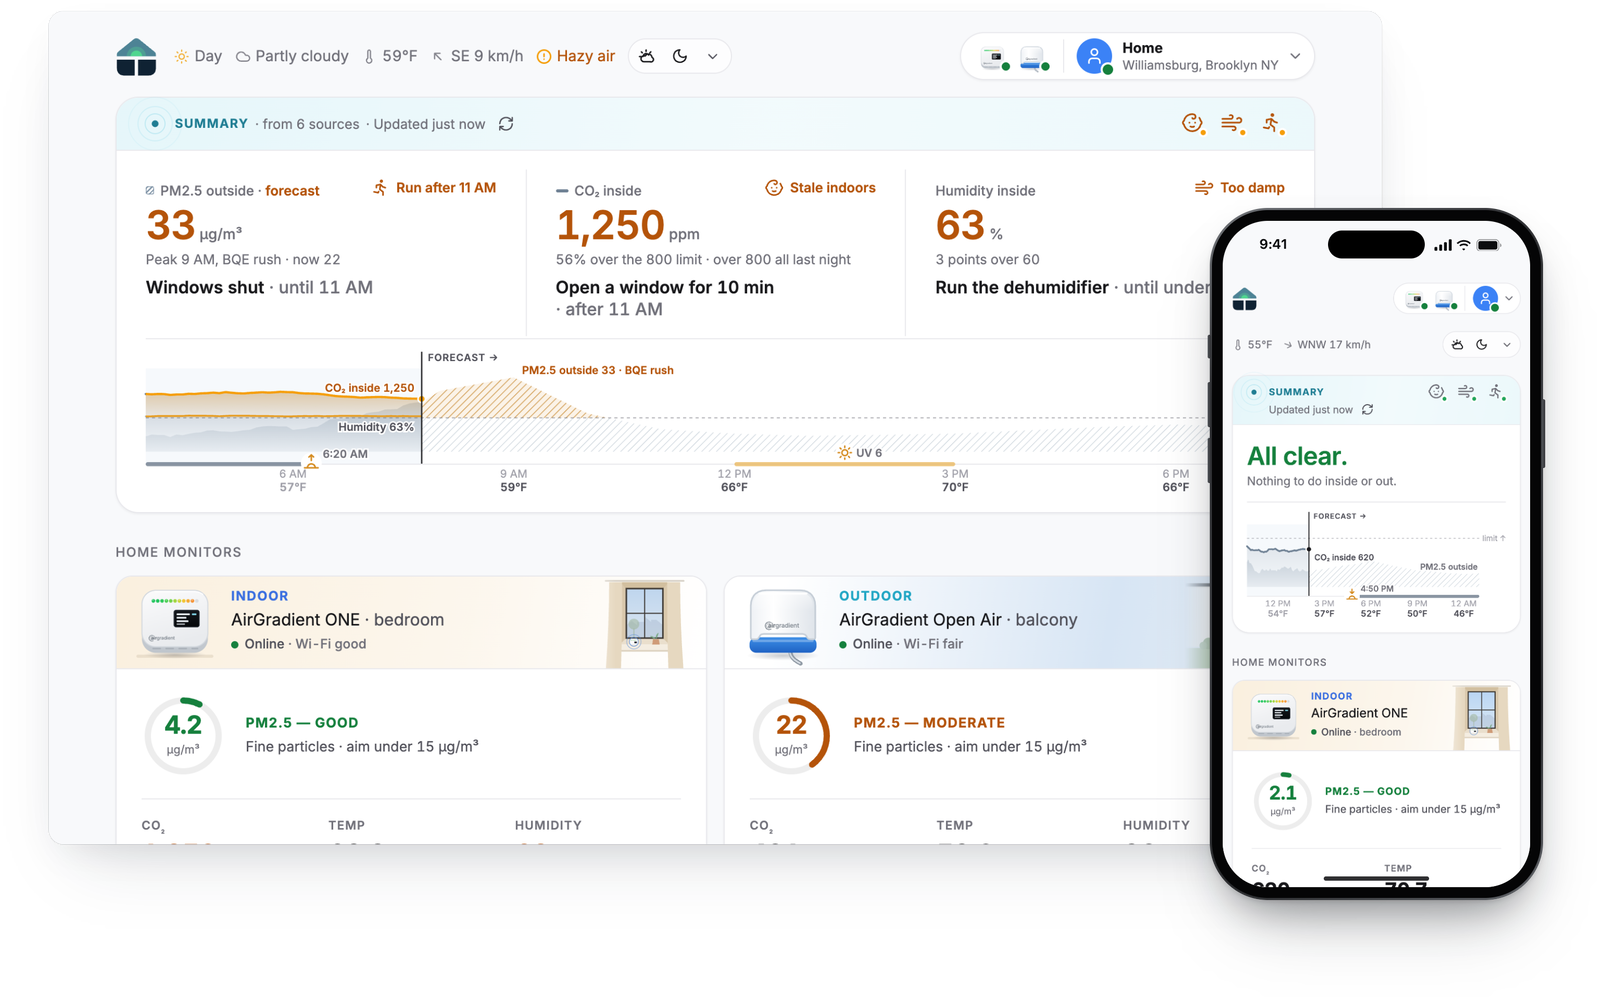
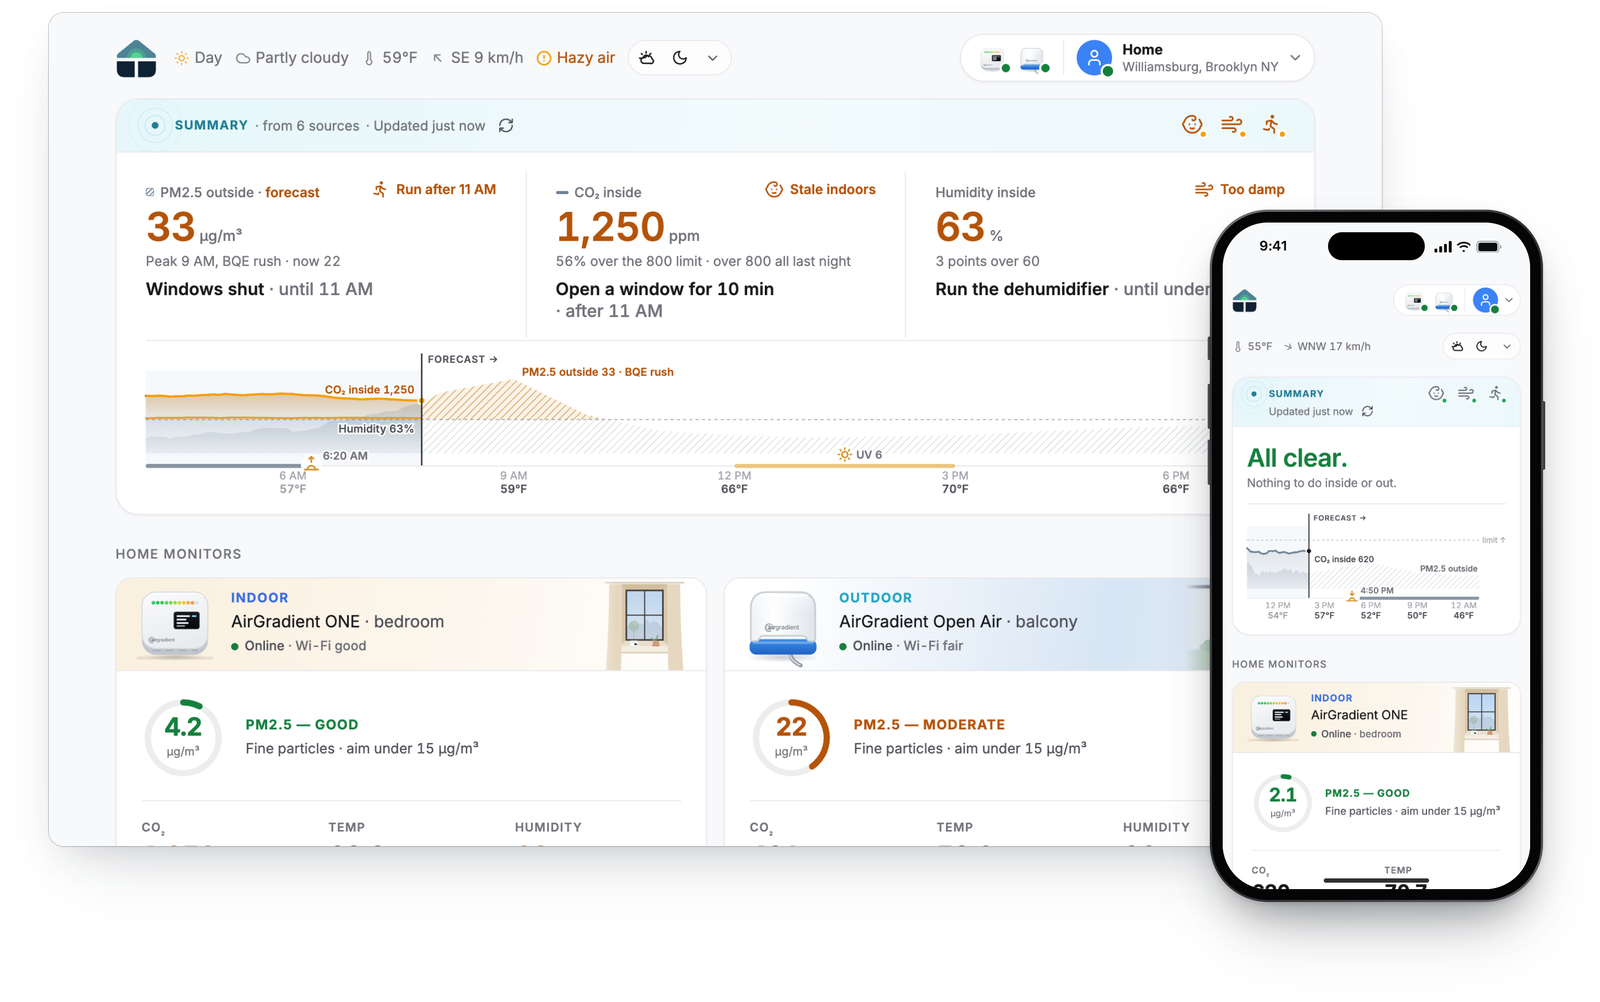
updated README

diff --git a/scripts/hero.html b/scripts/hero.html
@@ -11,8 +11,8 @@
   html, body { margin: 0; background: transparent; }
   :root {
     --ink: #0b0c0e;                  /* the phone's status bar and home indicator */
-    --ring: rgba(16, 24, 40, .09);   /* the hairline around the panel */
-    --sh1: rgba(16, 24, 40, .10);    /* the panel's close shadow */
+    --ring: rgba(16, 24, 40, .18);   /* the hairline around the panel: visible on GitHub's white page */
+    --sh1: rgba(16, 24, 40, .14);    /* the panel's close shadow */
     --sh2: rgba(16, 24, 40, .16);    /* the panel's far shadow */
     --ph0: rgba(0, 0, 0, .10);       /* the phone's contact shadow, close and far */
     --ph1: rgba(10, 14, 20, .30);

diff --git a/README.md b/README.md
@@ -1,8 +1,8 @@
-# <img src="static/icons/icon.svg" alt="" width="28" height="28"> Home Air
+# <img src="static/icons/icon.svg" alt="" width="40" height="40"> Home Air
 
-An app for your AirGradient monitors that tells you what to do about your air: when to open the window, when to keep it shut, when to go for a run. It combines your readings with the forecast, pollen, wildfire smoke and the public monitors around you.
+**Self-hosted, open-source home air quality app for AirGradient monitors.** It shows your readings next to the weather, pollen, wildfire smoke and traffic, and says when to open the windows, keep them shut or go for a run. It runs in the browser on a computer or phone, and includes an MCP server and a skill for Claude, ChatGPT and coding agents.
 
-**[Try the demo](https://homeair.app)** (an example home, or any public AirGradient monitor) · [Installation](#installation) · [Features](#features) · [How it works](#how-it-works)
+**[Try the demo](https://homeair.app)** · [Installation](#installation) · [Features](#features) · [How it works](#how-it-works)
 
 <p align="center">
   <picture>
@@ -11,11 +11,9 @@ An app for your AirGradient monitors that tells you what to do about your air: w
   </picture>
 </p>
 
-<sub>Screenshots from the demo, with sample data.</sub>
-
 ## Installation
 
-You need one or two AirGradient monitors (indoor, outdoor or both). Home Air reads the ones on your computer's Wi-Fi directly, one reading a minute, with no account and no token. An AirGradient API token is optional: it adds the last 7 days of history and is needed to deploy Home Air online. Works best in the US.
+You need one or two AirGradient monitors (indoor, outdoor or both). Home Air reads them on your Wi-Fi: no account needed.
 
 **With a coding agent** (Claude Code or Codex). Open your agent anywhere and paste:
 
@@ -23,65 +21,47 @@ You need one or two AirGradient monitors (indoor, outdoor or both). Home Air rea
 Set up Home Air for my home by following the instructions here: https://raw.githubusercontent.com/sguyon/homeair/main/SETUP.md
 ```
 
-Home Air goes in a `homeair` folder; to choose another folder, name it in the prompt.
+Home Air installs in a `homeair` folder where you open the agent (or `~/homeair` if that's inside another project). To choose another folder, name it in the prompt.
 
-The agent finds your monitors on the Wi-Fi and opens your page, then asks a few questions about your home, most of them optional. You can keep Home Air on your computer, or put it on a home server or online later ([DEPLOYMENT.md](DEPLOYMENT.md)).
+The agent finds your monitors and opens your page, then asks a few questions about your home, most of them optional, and offers to add the skill for your coding agents. To run it on a home server (Docker) or online (Railway): [DEPLOYMENT.md](DEPLOYMENT.md).
 
 **AI assistants:** ask Claude, ChatGPT and other agents about the air at home, and they answer from your monitors. Coding agents use Home Air's skill, other assistants its MCP server ([how](docs/agents.md)); claude.ai and ChatGPT need Home Air online.
 
-**With Docker,** on a home server or NAS: [Docker setup](DEPLOYMENT.md#docker).
-
-**Just trying it?** Without settings or a token, Home Air opens the demo: `uv run --with-requirements requirements.txt server.py`, then http://localhost:5555.
-
 ## Features
 
-- **Actions.** For CO₂ and humidity inside, PM2.5 and pollen outside: "Open a window for 10 min", "Keep windows shut", each with one line on why.
-- **Timing.** The actions look ahead, so you get "Windows shut until 11 AM" or "Run after 11 AM", from a PM2.5 forecast scaled to your outdoor monitor (without one, to the public monitors near you when there are some).
-- **Profiles.** Pick the profiles that match your home (a toddler, someone with sinus allergies, a runner), and the page says whether the air suits each of them right now.
-- Charts of today with its forecast, and of each monitor's history (1 hour to 7 days)
-- Weather, pollen, wildfire smoke, and a nearby highway's exhaust when the wind blows it your way
-- Public AirGradient monitors nearby, to see whether bad air is regional or just around your home
-- A live sky behind the page, with the real sun, clouds, rain and haze. Useless, but my toddler's favorite feature :)
-- Installs on your phone's home screen like an app (a PWA): Share › Add to Home Screen (iPhone, Safari) or ⋮ › Install app (Android, Chrome); it works offline only on https, which Home Air online (on Railway) has
+- **Actions** for CO₂ and humidity inside, PM2.5 and pollen outside: "Open a window for 10 min", "Keep windows shut", each with its reason.
+- **Timing:** "Windows shut until 11 AM", "Run after 11 AM", from a PM2.5 forecast fitted to your outdoor monitor, or to the public ones nearby when there are some.
+- Charts of today and of each monitor's history
+- **Profiles:** pick the ones that match your home (a toddler, someone with sinus allergies, a runner); the page says whether the air suits each of them.
+- **More sources:** weather, pollen, wildfire smoke, nearby public monitors (is bad air regional or just around your home?), and a highway's exhaust when the wind blows it your way
+- A live sky behind the page, with the real sun, clouds and rain. Useless, but my toddler's favorite feature :)
+- Installs on your phone's home screen like an app (a PWA): Share › Add to Home Screen (iPhone) or ⋮ › Install app (Android)
 
 ## Why I built it
 
-I have two AirGradient monitors at home, one inside and one outside. AirGradient's dashboard shows their readings well, but it doesn't say what to do about them, and the rest of what matters lives in other apps: the weather, the pollen season, rush hour on the expressway a kilometer away. I wanted one place that says what to do about the air at home, for what my household cares about: a toddler's sleep, sinus allergies, and running.
+AirGradient's dashboard shows my two monitors' readings well, but not what to do about them, and the rest lives in other apps: the weather, the pollen season, rush hour on the expressway nearby. I wanted one page that says what to do, for my household (a toddler's sleep, sinus allergies, running), without hundreds of clicks to build my own dashboard: a coding agent sets it up in a few minutes.
 
-My first version had an AI model write the actions, but it kept suggesting the same few things, so I turned each one into a plain rule. I plan to try AI again for patterns across weeks of readings.
-
-It's minimal on purpose, and by necessity: I built it around what my own two monitors measure :) It's meant to be easy to extend with your coding agent: the rules are short Python functions with their numbers named at the top, and [AGENTS.md](AGENTS.md) tells an agent how the code fits together. Adding a profile of your own, like someone who cooks on gas, or a baby ([how to add one](docs/optional.md#adding-a-profile)), hasn't been tried by anyone else yet: if you do, tell me how it went in an issue, or send a pull request.
+- **Minimal on purpose, and by necessity:** I built it around what my own two monitors measure :)
+- **Plain rules you can read,** not a model: each action says why.
+- **Easy to extend with a coding agent:** [AGENTS.md](AGENTS.md) explains the code, and [docs/optional.md](docs/optional.md#adding-a-profile) how to add a profile.
+- **Ask your AI assistant:** with the skill or the MCP server, Claude, ChatGPT or your coding agent answer from your readings, follow-up questions too ("how was the air last night?").
 
 ## Limitations
 
-- **Works best in the US.** Wildfire smoke (NOAA) and the forecast and pollen links use US sources. Elsewhere, turn those off in `config.toml`: your monitors' readings, the actions, the weather and the PM2.5 forecast still work.
-- **One or two monitors.** An indoor one, an outdoor one, or both. With an indoor monitor only, outdoor PM2.5 comes from a nearby public monitor or an estimate for your area; with an outdoor monitor only, the toddler profile waits for an indoor one. No rooms or several monitors of the same kind yet.
-- **Wi-Fi reads need the same network.** Home Air finds monitors by browsing the local network (mDNS), which doesn't work inside Docker or WSL, and Home Air online (on Railway) can't reach your Wi-Fi at all. A home server reads the addresses found during setup; Home Air online reads AirGradient's cloud with your token, up to 5 minutes old. Monitors need firmware 3.1.4 or newer.
-- **No road for new homes yet.** The road and its exhaust need a route file traced along the road, and nothing in the repo builds one yet. The demo has one; new homes start without.
+- **Works best in the US:** smoke, pollen and the forecast links use US sources. Elsewhere, turn them off in `config.toml`; the rest works.
+- **One or two monitors:** one indoor, one outdoor, or both. With one, outdoor PM2.5 comes from public monitors nearby. No rooms yet.
+- **Wi-Fi reads need the same network** and firmware 3.1.4 or newer; from Docker, setup finds the monitors first.
+- **No road for new homes yet:** the highway's exhaust needs a route file, and only the demo has one. Working on it :)
 
 ## Data and privacy
 
-- **Your readings stay on your computer.** When Home Air reads your monitors on the Wi-Fi (on your computer or a home server), it keeps their readings in its own history: one row a minute per monitor in `history.sqlite` next to `config.toml` (the `/data` volume with Docker), readable by its owner only, kept until you delete it and never sent anywhere. Each monitor's last known address is kept beside it in `local-addresses.json`.
-- **Home Air online keeps no history of its own:** its charts come from AirGradient's cloud, held in memory for a day at most.
-- **No accounts, no analytics in Home Air.** The server's logs list which sources it called, never readings or keys. Only the public demo site counts page views and loading speed (Vercel Web Analytics and Speed Insights: no cookies, nothing personal); Home Air on your computer, a home server or online has none.
-- **What leaves your server:** your AirGradient API token, when you add one, goes only to AirGradient. Reading a monitor on the Wi-Fi sends nothing outside your network. Your home's exact position stays in `config.toml`; rounded to about 1 km by the app, it goes to Open-Meteo (weather and forecast) and to Google if you add a pollen key.
-- **Calls to AirGradient:** with every monitor read on the Wi-Fi, the app makes no call for current readings. How often it asks AirGradient otherwise, and how it keeps that low, is in [docs/api-usage.md](docs/api-usage.md).
+- **Your readings stay on your computer:** Home Air keeps its own history in `history.sqlite`, next to `config.toml`, until you delete it, and never sends it anywhere. Home Air online keeps none (its charts come from AirGradient's cloud).
+- **What leaves:** your token goes only to AirGradient; your home's position, rounded to about 1 km, goes to Open-Meteo, to AirGradient's public map and, with a pollen key, to Google. Reading monitors on the Wi-Fi sends nothing out. How often it calls AirGradient: [docs/api-usage.md](docs/api-usage.md).
+- **No accounts, no analytics:** logs list the sources called, never readings or keys. Only the public demo site counts visits (Vercel Web Analytics, no cookies).
 
 ## How it works
 
-The actions come from fixed rules in `summary.py` and `server.py`, not a model. Each rule compares a reading with a limit from your `config.toml` (`[limits]`). The defaults, and why:
-
-| Limit | Default | Why |
-|---|---|---|
-| CO₂ inside | 800 ppm | About twice the outdoor level (around 420). Above it the room doesn't get enough fresh air, and people start to notice; guidelines put the line between 800 and 1,000. |
-| PM2.5 outside | 15 µg/m³ | The World Health Organization's guideline for a 24-hour average. Used here for any hour, so it's strict on purpose. |
-| PM2.5 outside, high | 35 µg/m³ | The US EPA's 24-hour standard. Above it, sensitive people (children, asthma) should keep time outside short. |
-| Humidity inside | 30–60%, comfortable up to 50% | Under 30% dries the nose and throat; over 60% helps mold and dust mites grow. The damp-room action stops at 55%. |
-| Pollen | 3 of 5 | "Moderate" on Google's pollen index, where people with allergies start to feel it. |
-
-Change any of them in `config.toml`; the comments in [`config.example.toml`](config.example.toml) say what each one does.
-
-How the PM2.5 forecast is fitted to your monitor, and which corrected PM2.5 values the rules use: [docs/how-it-works.md](docs/how-it-works.md).
+The actions are fixed rules, not a model: each compares a reading with a limit you can change in `config.toml`. The default thresholds: CO₂ 800 ppm inside, PM2.5 15 µg/m³ outside (35 for "high"), humidity 30–60% inside, pollen 3 of 5. Why these numbers, how the PM2.5 forecast is fitted to your monitor, and which corrected PM2.5 values the rules use: [docs/how-it-works.md](docs/how-it-works.md).
 
 ## Screenshots
 
@@ -91,7 +71,7 @@ How the PM2.5 forecast is fitted to your monitor, and which corrected PM2.5 valu
 
 ## Credits
 
-- Your monitors, and the nearby public monitors: [AirGradient](https://www.airgradient.com) ([API](https://api.airgradient.com/public/docs/api/v1/), [public map](https://www.airgradient.com/map/)). Nearby monitors' data is licensed under [CC-BY-SA 4.0](https://creativecommons.org/licenses/by-sa/4.0/); each monitor's owner is named in its row on the page.
+- Nearby monitors: [AirGradient](https://www.airgradient.com) community monitors ([API](https://api.airgradient.com/public/docs/api/v1/), [public map](https://www.airgradient.com/map/)), licensed under [CC-BY-SA 4.0](https://creativecommons.org/licenses/by-sa/4.0/).
 - Weather and the PM2.5 forecast: [Open-Meteo](https://open-meteo.com) ([Weather API](https://open-meteo.com/en/docs), [Air Quality API](https://open-meteo.com/en/docs/air-quality-api)).
 - Pollen: [Google Pollen API](https://developers.google.com/maps/documentation/pollen) (optional, needs a key).
 - Wildfire smoke: NOAA's [Hazard Mapping System](https://www.ospo.noaa.gov/products/land/hms.html).
@@ -102,7 +82,7 @@ How the PM2.5 forecast is fitted to your monitor, and which corrected PM2.5 valu
 
 Questions, bugs and ideas are welcome as GitHub issues. Never paste a token or key in an issue or pull request, even a partial one. To report a security problem, see [`SECURITY.md`](SECURITY.md).
 
-Pull requests: install `requirements-dev.txt` (`pip install -r requirements-dev.txt`), run `pytest -q` and `node --test tests/*.test.mjs` first, and keep your `config.toml`, `.env` and readings out of the diff. Agents working on the code read [`AGENTS.md`](AGENTS.md).
+Pull requests: install `requirements-dev.txt` (`pip install -r requirements-dev.txt`), run `pytest -q` and `node --test tests/*.test.mjs` first, and keep your `config.toml`, `.env` and readings out of the diff. Agents working on the code read [`AGENTS.md`](AGENTS.md). To run the demo locally: `DEMO=1 uv run --with-requirements requirements.txt server.py`, then http://localhost:5555.
 
 ## License
 

diff --git a/docs/how-it-works.md b/docs/how-it-works.md
@@ -1,6 +1,20 @@
-# How Home Air works: the forecast and corrected PM2.5
+# How Home Air works
 
-The actions and their limits are in the [README](../README.md#how-it-works). Below are two details the actions depend on: the PM2.5 forecast and the corrected PM2.5 values.
+The limits behind the actions, the PM2.5 forecast, and the corrected PM2.5 values the rules use.
+
+## The limits
+
+The actions come from fixed rules in `summary.py` and `air_read.py`, not a model. Each rule compares a reading with a limit from your `config.toml` (`[limits]`). The defaults, and why:
+
+| Limit | Default | Why |
+|---|---|---|
+| CO₂ inside | 800 ppm | About twice the outdoor level (around 420). Above it the room doesn't get enough fresh air, and people start to notice; guidelines put the line between 800 and 1,000. |
+| PM2.5 outside | 15 µg/m³ | The World Health Organization's guideline for a 24-hour average. Used here for any hour, so it's strict on purpose. |
+| PM2.5 outside, high | 35 µg/m³ | The US EPA's 24-hour standard. Above it, sensitive people (children, asthma) should keep time outside short. |
+| Humidity inside | 30–60%, comfortable up to 50% | Under 30% dries the nose and throat; over 60% helps mold and dust mites grow. The damp-room action stops at 55%. |
+| Pollen | 3 of 5 | "Moderate" on Google's pollen index, where people with allergies start to feel it. |
+
+Change any of them in `config.toml`; the comments in [`config.example.toml`](../config.example.toml) say what each one does.
 
 ## The PM2.5 forecast
 
